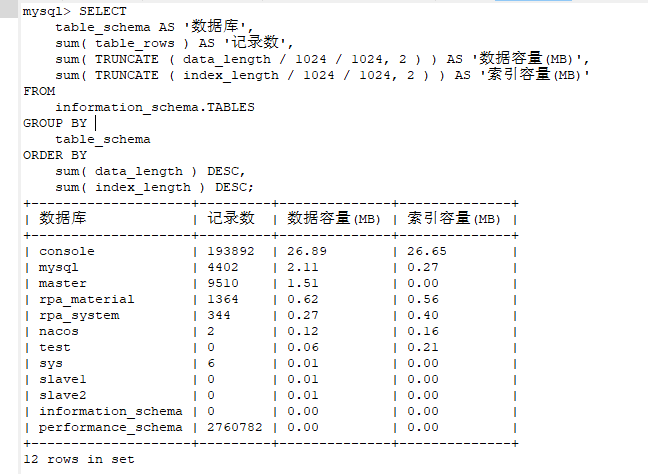
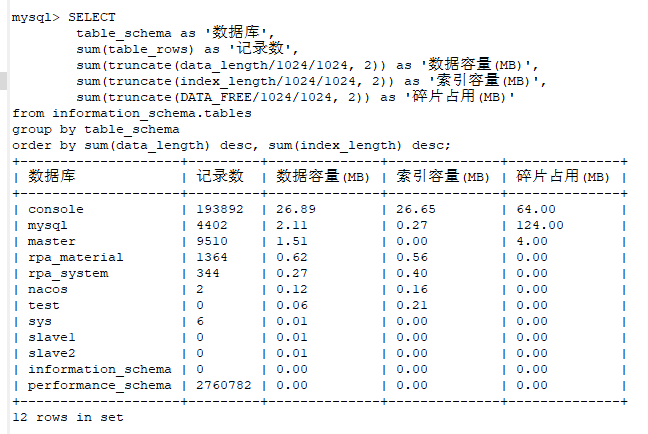
feat: 添加文章《MySQL查看数据库容量》

Changed region(s): [[0.0, 0.0, 0.9568, 0.9885], [0.0, 0.1498, 0.0926, 0.2097]]

diff --git a/docs/Database/MySQL查看数据库容量.md b/docs/Database/MySQL查看数据库容量.md
@@ -1,25 +1,48 @@
 # MySQL查看数据库容量
 
-## 1、查看所有数据库容量大小
+在每个 MySQL 实例中，都有一个独立的 `information_schema` 库，它是自带的默认库，记录着这个 MySQL 实例中所有数据库的元数据、统计信息、以及有关 MySQL 的访问权限信息。这其中就包括了所有数据库、表、索引的详细信息。
+
+用到的`information_schema` 库中 `Table` 表里的字段：
+
+- `TABLE_SCHEMA` : 数据库名
+- `TABLE_NAME`：表名
+- `ENGINE`：所使用的存储引擎
+- `TABLES_ROWS`：记录数
+- `DATA_LENGTH`：数据容量大小
+- `INDEX_LENGTH`：索引容量大小
+
+更多有关 `information_schema` 的信息，大家可在查看 [MySQL 手册](https://dev.mysql.com/doc/refman/8.0/en/information-schema.html) 深入了解。
+
+有关 `information_schema.TABLES` 更多字段信息，可以使用以下命令查看更多：
+
+```sql
+use information_schema;
+SHOW COLUMNS FROM TABLES;
+```
+
+![image](../assets/db/db-1-0.png)
+
+需要特别注意的是：
+
+> `data_length` 、`index_length` 、`DATA_FREE` 等字段，所存储的容量信息单位是字节，所以我们要除以 2 个 1024 把字节转化为可读性更强的 MB
+
+## 1、查看 MySQL「所有库」的容量大小
 
 ```sql
 SELECT 
-    table_schema AS '数据库', 
-    sum( table_rows ) AS '记录数', 
-    sum( TRUNCATE ( data_length / 1024 / 1024, 2 ) ) AS '数据容量(MB)', 
-    sum( TRUNCATE ( index_length / 1024 / 1024, 2 ) ) AS '索引容量(MB)'  
-FROM 
-    information_schema.TABLES  
-GROUP BY 
-    table_schema  
-ORDER BY 
-    sum( data_length ) DESC, 
-    sum( index_length ) DESC; 
+    table_schema as '数据库',
+    sum(table_rows) as '记录数',
+    sum(truncate(data_length/1024/1024, 2)) as '数据容量(MB)',
+    sum(truncate(index_length/1024/1024, 2)) as '索引容量(MB)',
+    sum(truncate(DATA_FREE/1024/1024, 2)) as '碎片占用(MB)'
+from information_schema.tables
+group by table_schema
+order by sum(data_length) desc, sum(index_length) desc;
 ```
 
 ![image](../assets/db/db-1-1.png)
 
-## 2. 查看所有数据库各表容量大小
+## 2. 查看 MySQL「所有库」中「所有表」的容量大小
 
 ```sql
 SELECT 
@@ -27,7 +50,8 @@ SELECT
     table_name AS '表名', 
     table_rows AS '记录数', 
     TRUNCATE ( data_length / 1024 / 1024, 2 ) AS '数据容量(MB)', 
-    TRUNCATE ( index_length / 1024 / 1024, 2 ) AS '索引容量(MB)'  
+    TRUNCATE ( index_length / 1024 / 1024, 2 ) AS '索引容量(MB)',
+    TRUNCATE ( DATA_FREE/1024/1024, 2 ) AS '碎片占用(MB)'
 FROM 
     information_schema.TABLES  
 ORDER BY 
@@ -37,21 +61,24 @@ ORDER BY
 
 ![image](../assets/db/db-1-2.png)
 
-## 3. 查看指定数据库容量大小
+## 3. 查看 MySQL「指定库」的容量大小
 
 ```sql
 SELECT 
     table_schema AS '数据库', 
     sum( table_rows ) AS '记录数', 
     sum( TRUNCATE ( data_length / 1024 / 1024, 2 ) ) AS '数据容量(MB)', 
-    sum( TRUNCATE ( index_length / 1024 / 1024, 2 ) ) AS '索引容量(MB)'  
+    sum( TRUNCATE ( index_length / 1024 / 1024, 2 ) ) AS '索引容量(MB)',
+    sum( TRUNCATE ( DATA_FREE/1024/1024, 2 )) AS '碎片占用(MB)'
 FROM 
     information_schema.TABLES  
 WHERE 
-    table_schema = 'mysql'; 
+    table_schema = 'console'; 
 ```
 
-## 4. 查看指定数据库各表容量大小
+![image](../assets/db/db-1-3.png)
+
+## 4. 查看 MySQL「指定库」中「所有表」的容量大小
 
 ```sql
 SELECT 
@@ -59,13 +86,34 @@ SELECT
     table_name AS '表名', 
     table_rows AS '记录数', 
     TRUNCATE ( data_length / 1024 / 1024, 2 ) AS '数据容量(MB)', 
-    TRUNCATE ( index_length / 1024 / 1024, 2 ) AS '索引容量(MB)'  
+    TRUNCATE ( index_length / 1024 / 1024, 2 ) AS '索引容量(MB)',  
+    TRUNCATE ( DATA_FREE/1024/1024, 2 ) AS '碎片占用(MB)'
 FROM 
     information_schema.TABLES  
 WHERE 
-    table_schema = 'mysql'  
+    table_schema = 'console'  
 ORDER BY 
     data_length DESC, 
     index_length DESC; 
 ```
+
+![image](../assets/db/db-1-4.png)
+
+## 5. 查看 MySQL「指定库」中「指定表」的容量大小
+
+```sql
+SELECT 
+    table_schema AS '数据库', 
+    table_name AS '表名', 
+    table_rows AS '记录数', 
+    TRUNCATE ( data_length / 1024 / 1024, 2 ) AS '数据容量(MB)', 
+    TRUNCATE ( index_length / 1024 / 1024, 2 ) AS '索引容量(MB)',  
+    TRUNCATE ( DATA_FREE/1024/1024, 2 ) AS '碎片占用(MB)'
+FROM 
+    information_schema.TABLES  
+WHERE 
+    table_schema = 'console' and table_name = 't_idealist';
+```
+
+![image](../assets/db/db-1-5.png)
 
